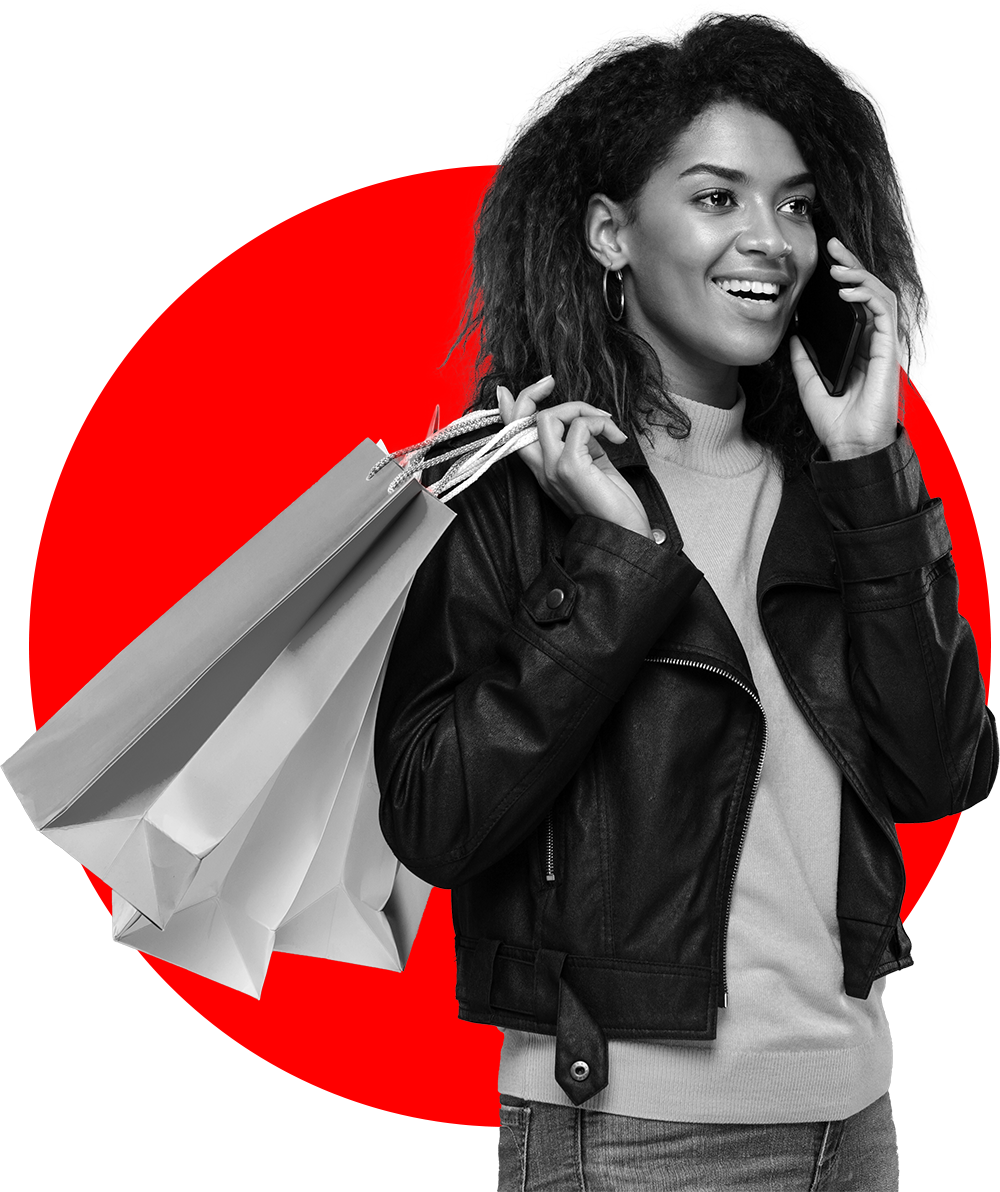
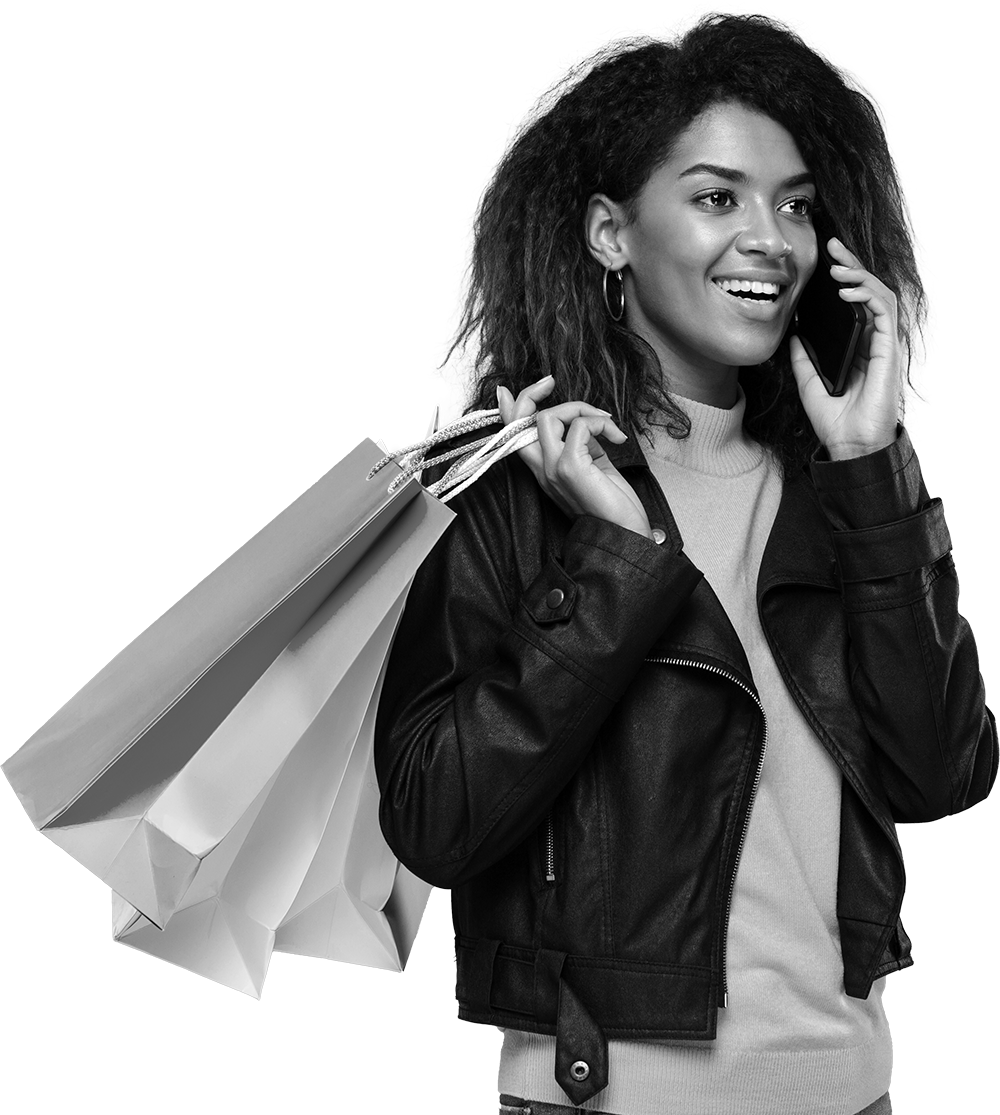
about

diff --git a/src/components/Introduction.tsx b/src/components/Introduction.tsx
@@ -1,4 +1,49 @@
 import React from 'react'
+import Image from "next/image";
+
+const teamMembers = [
+    {
+        name: "Payment Gateway",
+        image: "/images/SVG/payment_gateway.svg",
+        description: "Innovative blockchain developer pioneering secure, scalable, and decentralized solutions for the future.",
+    },
+    {
+        name: "Payment processing for iGaming",
+        image: "/images/SVG/igaming.svg",
+        description: "Experienced full-stack developer building modern web apps and blockchain solutions.",
+    },
+    // {
+    //     name: "Alternative payments methods",
+    //     image: "/images/pavin.png",
+    //     description: "Blockchain Dev, Full-time Degen with hands-on experience in decentralized finance and cryptocurrency.",
+    // },
+    // {
+    //     name: "Open Banking",
+    //     image: "/images/pavin.png",
+    //     description: "Blockchain Dev, Full-time Degen with hands-on experience in decentralized finance and cryptocurrency.",
+    // },
+    // {
+    //     name: "Real – time reporting & Analytics",
+    //     image: "/images/pavin.png",
+    //     description: "Blockchain Dev, Full-time Degen with hands-on experience in decentralized finance and cryptocurrency.",
+    // },
+    // {
+    //     name: "Smart transaction Routing",
+    //     image: "/images/pavin.png",
+    //     description: "Blockchain Dev, Full-time Degen with hands-on experience in decentralized finance and cryptocurrency.",
+    // },
+    // {
+    //     name: "Fraud & Chargeback prevention",
+    //     image: "/images/pavin.png",
+    //     description: "Blockchain Dev, Full-time Degen with hands-on experience in decentralized finance and cryptocurrency.",
+    // },
+    // {
+    //     name: "Payment processing for iGaming",
+    //     image: "/images/pavin.png",
+    //     description: "Blockchain Dev, Full-time Degen with hands-on experience in decentralized finance and cryptocurrency.",
+    // },
+    
+];
 
 export default function Introduction() {
     return (
@@ -7,11 +52,22 @@ export default function Introduction() {
             <div className='grid-cols-2 gap-y-10 gap-x-8 py-16 md:grid'>
                 <div className='flex flex-col justify-center items-center md:items-start text-center md:text-left'>
                     <small className='text-mainsecondary font-bold text-xl'>PEXIPAY KEY FEATURES</small>
-                    <h1 className='font-bold text-mainaccent text-4xl my-3'>We deliver outstanding results while streamlining your processes.</h1>
+                    <h1 className='font-bold text-mainblue text-4xl my-3'>We deliver outstanding results while streamlining your processes.</h1>
                     <p>We deliver outstanding results while streamlining your processes. Our goal is to maximize efficiency and ensure you achieve the best outcomes with minimal effort and expense.</p>
                 </div>
-                <div>
-                zxczxvczvz
+                <div className='flex flex-row'>
+                {teamMembers.map((member, index) => (
+                        <div key={index} className="bg-maingrey rounded-lg px-4 py-10 m-4 flex flex-col justify-center items-center">
+                            <Image
+                                src={member.image}
+                                alt={member.name}
+                                width={80}
+                                height={80}
+                                className="mx-auto"
+                            />
+                            <p className="text-xl font-semibold mt-4">{member.name}</p>
+                        </div>
+                    ))}
                 </div>
             </div>
         </div>

diff --git a/src/components/Header.tsx b/src/components/Header.tsx
@@ -5,7 +5,7 @@ import Image from 'next/image'
 
 export default function Header() {
   return (
-    <section className='bg-gradient-to-t from-mainaccent  to-mainprimary md:h-screen h-full w-full py-20 md:py-0'>
+    <section className='bg-gradient-to-t from-mainaccent  to-mainprimary md:h-screen h-auto w-full py-20 md:py-0'>
       
       <div className='grid md:grid-cols-2 gap-10 md:grid max-w-7xl mx-auto items-center justify-center h-full'>
         <div className='flex flex-col justify-center items-center'>
@@ -16,7 +16,12 @@ export default function Header() {
           </div>
         </div>
         <div className='flex justify-start items-bottom h-full relative hidden md:block'>
-          <Image src="/images/hero_image.png" alt="pexi-logo" width={600} height={100}
+          <Image src="/images/woman_shopping_image.png" alt="pexi-logo" width={500} height={100}
+            priority // Optional: Improves loading performance 
+
+            className="absolute bottom-0 h-auto w-full" data-aos="fade-up"
+          />
+          <Image src="/images/shopper.png" alt="pexi-logo" width={800} height={100}
             priority // Optional: Improves loading performance 
 
             className="absolute bottom-0 h-auto w-full" data-aos="fade-up"

diff --git a/src/components/About.tsx b/src/components/About.tsx
@@ -8,7 +8,7 @@ export default function About() {
             <div className='max-w-7xl mx-auto '>
             <div className="flex flex-col-reverse md:grid md:grid-cols-2 gap-4">
                 <div className=''>
-                    <Image src="/images/woman_shopping_image.png" alt="image" width={400} height={350} className='mt-8 md:-mt-15 px-5 md:px-0' />
+                    <Image src="/images/shopper-two.png" alt="image" width={600} height={350} className='mt-8 md:-mt-15 px-5 md:px-0' />
                 </div>
                 <div className='flex flex-col justify-center items-center text-white'>
                     <h1 className='text-4xl md:text-5xl font-bold text-center md:text-left  md:px-0 px-8 mb-4 mt-16'>We tap into modern payment methods that help your business grow.</h1>

diff --git a/src/app/page.tsx b/src/app/page.tsx
@@ -1,4 +1,5 @@
 import About from "@/components/About";
+import Choose from "@/components/Choose";
 import Header from "@/components/Header";
 import Introduction from "@/components/Introduction";
 import NavigationBar from "@/components/Navbar";
@@ -14,6 +15,7 @@ export default function Home() {
         <Introduction/>
         <About/>
         <WhyChoose/>
+        <Choose/>
       </div>
     </section>
   );

diff --git a/src/app/layout.tsx b/src/app/layout.tsx
@@ -2,6 +2,8 @@ import type { Metadata } from "next";
 import {Fira_Sans} from "next/font/google";
 import "./globals.css";
 
+
+
 const geistSans = Fira_Sans({
   subsets: ["latin"],
   weight: ["400", "500", "600", "700", "800", "900"],

diff --git a/src/app/globals.css b/src/app/globals.css
@@ -10,6 +10,8 @@
   --color-mainprimary: #050123;
   --color-mainsecondary: #ff0000;
   --color-mainaccent: #340CD1;
+  --color-mainblue: #04097d;
+  --color-maingrey: #ebecf0;
 }
 
 :root {

diff --git a/src/components/Choose.tsx b/src/components/Choose.tsx
@@ -1,0 +1,7 @@
+import React from 'react'
+
+export default function Choose() {
+  return (
+    <div>Choose</div>
+  )
+}
